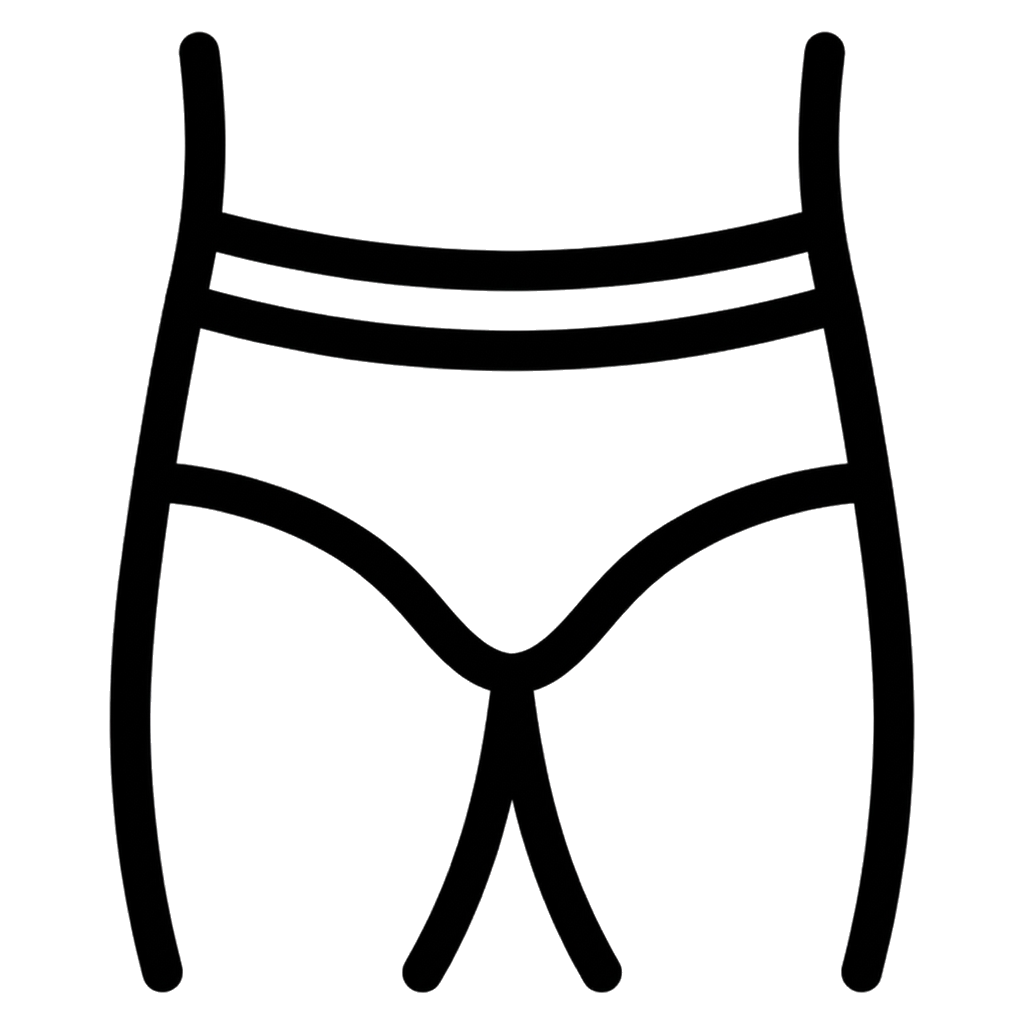
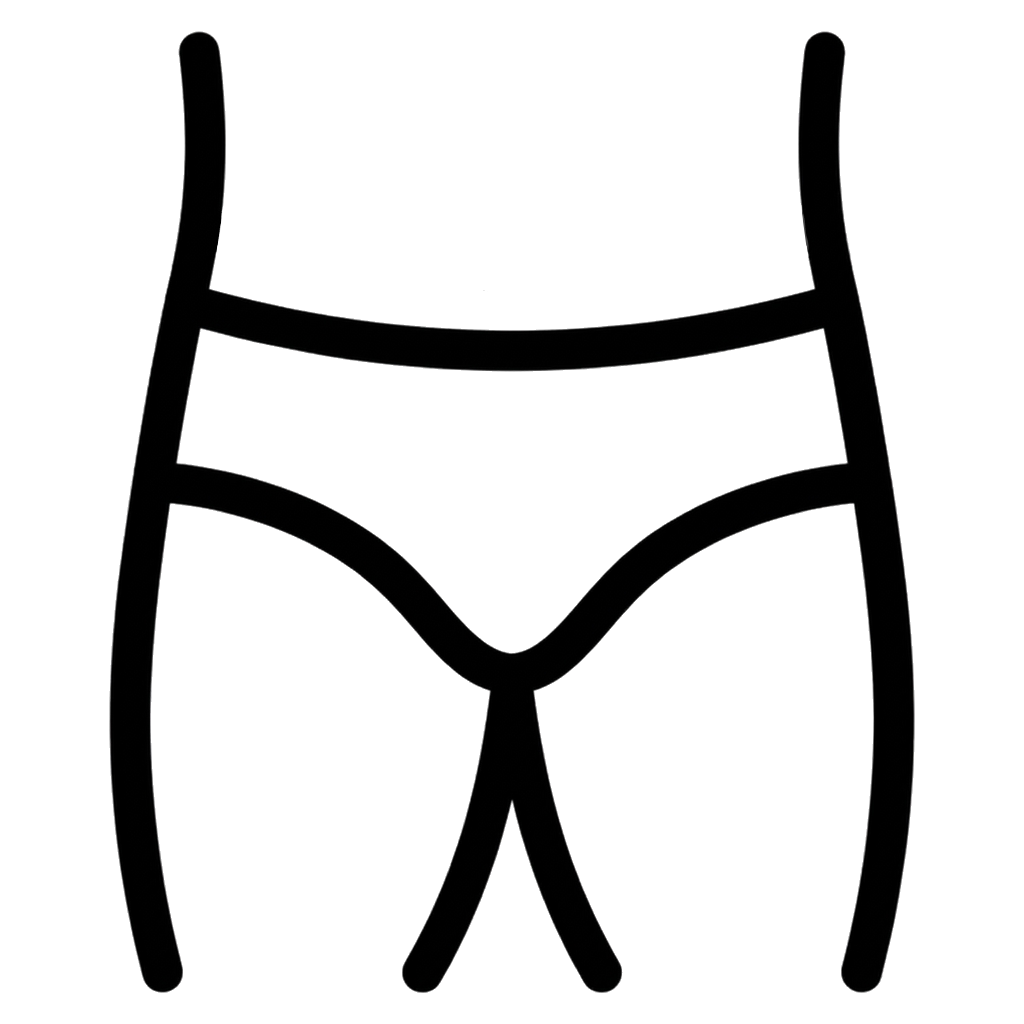
feat(fitness): forearm measurement illustration + hips asset refresh
Adds a forearm SVG in the same currentColor-stroked style as thigh.svg and
wires it into both the body-parts wizard and BODY_PART_CARDS so the step
no longer falls back to the ruler placeholder. Also refreshes the hips PNG.

Changed region(s): [[0.1875, 0.1875, 0.8125, 0.3125]]

diff --git a/src/lib/js/fitnessBodyParts.ts b/src/lib/js/fitnessBodyParts.ts
@@ -22,7 +22,7 @@ export const BODY_PART_CARDS: BodyPartCard[] = [
 	{ key: 'shoulders', slugDe: 'schultern',    labelKey: 'shoulders', img: 'back.png',      paired: false, db: 'shoulders' },
 	{ key: 'chest',     slugDe: 'brust',        labelKey: 'chest',     img: 'shoulders.png', paired: false, db: 'chest' },
 	{ key: 'biceps',    slugDe: 'bizeps',       labelKey: 'biceps',    img: 'bicep.png',     paired: true,  dbLeft: 'leftBicep',   dbRight: 'rightBicep' },
-	{ key: 'forearms',  slugDe: 'unterarme',    labelKey: 'forearms',  img: null,            paired: true,  dbLeft: 'leftForearm', dbRight: 'rightForearm' },
+	{ key: 'forearms',  slugDe: 'unterarme',    labelKey: 'forearms',  img: 'forearm.svg',   paired: true,  dbLeft: 'leftForearm', dbRight: 'rightForearm' },
 	{ key: 'waist',     slugDe: 'taille',       labelKey: 'waist',     img: 'waist.png',     paired: false, db: 'waist' },
 	{ key: 'hips',      slugDe: 'huefte',       labelKey: 'hips',      img: 'hips.png',      paired: false, db: 'hips' },
 	{ key: 'thighs',    slugDe: 'oberschenkel', labelKey: 'thighs',    img: 'thigh.svg',     paired: true,  dbLeft: 'leftThigh',   dbRight: 'rightThigh' },

diff --git a/src/routes/fitness/[measure=fitnessMeasure]/body-parts/+page.svelte b/src/routes/fitness/[measure=fitnessMeasure]/body-parts/+page.svelte
@@ -23,7 +23,7 @@
 		{ key: 'shoulders', labelKey: 'shoulders', img: 'back.png',      paired: false, tipKey: 'measure_tip_shoulders', dbSingle: 'shoulders' },
 		{ key: 'chest',     labelKey: 'chest',     img: 'shoulders.png', paired: false, tipKey: 'measure_tip_chest',     dbSingle: 'chest' },
 		{ key: 'biceps',    labelKey: 'l_bicep',   img: 'bicep.png',     paired: true,  tipKey: 'measure_tip_biceps',    dbLeft: 'leftBicep',   dbRight: 'rightBicep' },
-		{ key: 'forearms',  labelKey: 'l_forearm', img: null,            paired: true,  tipKey: 'measure_tip_forearms',  dbLeft: 'leftForearm', dbRight: 'rightForearm' },
+		{ key: 'forearms',  labelKey: 'l_forearm', img: 'forearm.svg',   paired: true,  tipKey: 'measure_tip_forearms',  dbLeft: 'leftForearm', dbRight: 'rightForearm' },
 		{ key: 'waist',     labelKey: 'waist',     img: 'waist.png',     paired: false, tipKey: 'measure_tip_waist',     dbSingle: 'waist' },
 		{ key: 'hips',      labelKey: 'hips',      img: 'hips.png',      paired: false, tipKey: 'measure_tip_hips',      dbSingle: 'hips' },
 		{ key: 'thighs',    labelKey: 'l_thigh',   img: 'thigh.svg',     paired: true,  tipKey: 'measure_tip_thighs',    dbLeft: 'leftThigh',   dbRight: 'rightThigh' },